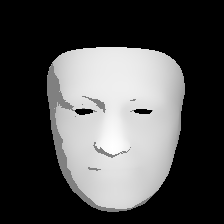
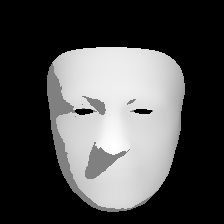
update inf_utils for fixed condition

diff --git a/sample_scripts/paper_script/relight_idx_rotate_normals.py b/sample_scripts/paper_script/relight_idx_rotate_normals.py
@@ -25,10 +25,12 @@ parser.add_argument('--src_dst', nargs='+', default=[], help='list of src and ds
 # Rendering
 parser.add_argument('--render_mode', type=str, default="shape")
 parser.add_argument('--rotate_normals', action='store_true', default=False)
-parser.add_argument('--scale_sh', type=float, default=1.0)
 parser.add_argument('--add_sh', type=float, default=None)
 parser.add_argument('--sh_grid_size', type=int, default=None)
-parser.add_argument('--sh_span', type=float, default=None)
+parser.add_argument('--sh_span_y', type=float, nargs='+', default=[])
+parser.add_argument('--sh_span_x', type=float, nargs='+', default=[])
+parser.add_argument('--sh_scale', type=float, default=1.0)
+parser.add_argument('--use_sh', action='store_true', default=False)
 parser.add_argument('--diffuse_sh', type=float, default=None)
 parser.add_argument('--diffuse_perc', type=float, default=None)
 # Diffusion
@@ -41,10 +43,6 @@ parser.add_argument('--gpu_id', type=str, default="0")
 parser.add_argument('--postfix', type=str, default='')
 parser.add_argument('--save_vid', action='store_true', default=False)
 parser.add_argument('--fps', action='store_true', default=False)
-# Experiment
-parser.add_argument('--fixed_render', action='store_true', default=False)
-parser.add_argument('--fixed_shadow', action='store_true', default=False)
-
 
 args = parser.parse_args()
 
@@ -88,6 +86,7 @@ device = 'cuda' if th.cuda.is_available() and th._C._cuda_getDeviceCount() > 0 e
 
 def make_condition(cond, src_idx, dst_idx, n_step=2, itp_func=None):
     condition_img = list(filter(None, dataset.condition_image))
+    n_step += 1
     args.interpolate = args.itp
     misc = {'condition_img':condition_img,
             'src_idx':src_idx,
@@ -100,7 +99,7 @@ def make_condition(cond, src_idx, dst_idx, n_step=2, itp_func=None):
             'img_size':cfg.img_model.image_size,
             'deca_obj':deca_obj,
             'cfg':cfg,
-            'batch_size':args.batch_size,
+            'batch_size':args.batch_size
             }  
     
     if itp_func is not None:
@@ -126,6 +125,7 @@ def make_condition(cond, src_idx, dst_idx, n_step=2, itp_func=None):
                 if 'dpm_noise_masking' in p:
                     cond[f'{k}_mask'] = cond[f'{k}_mask'].to(device)
                     cond['image'] = cond['image'].to(device)
+    
 
     if 'render_face' in args.itp:
         interp_set = args.itp.copy()
@@ -197,7 +197,7 @@ def relight(dat, model_kwargs, itp_func, n_step=3, src_idx=0, dst_idx=1):
     rev_mean_first = [x[:1] for x in rev_mean]
     
     print("[#] Relighting...")
-    sub_step = ext_sub_step(n_step)
+    sub_step = ext_sub_step(n_step+1)
     relit_out = []
     for i in range(len(sub_step)-1):
         print(f"[#] Sub step relight : {sub_step[i]} to {sub_step[i+1]}")
@@ -208,7 +208,7 @@ def relight(dat, model_kwargs, itp_func, n_step=3, src_idx=0, dst_idx=1):
         mean_match_ratio = copy.deepcopy(rev_mean_first)
         cond['use_render_itp'] = True
         cond_relight = copy.deepcopy(cond)
-        cond_relit = dict_slice_se(in_d=cond_relight, keys=cond_relight.keys(), s=start, e=end) # Slice only 1st image out for inversion
+        cond_relit = dict_slice_se(in_d=cond_relight, keys=cond_relight.keys(), s=start, e=end)
         if cfg.img_cond_model.apply:
             cond_relit = pl_sampling.forward_cond_network(model_kwargs=cond_relit)
         
@@ -240,7 +240,6 @@ if __name__ == '__main__':
 
     # Load dataset
     if args.dataset == 'itw':
-        cfg.dataset.root_path = f'/data/mint/DPM_Dataset/'
         img_dataset_path = f"/data/mint/DPM_Dataset/ITW/itw_images_aligned/"
         deca_dataset_path = f"/data/mint/DPM_Dataset/ITW/params/"
         img_ext = '.png'
@@ -368,29 +367,39 @@ if __name__ == '__main__':
         save_res_dir = f"{out_dir_relit}/src={src_id}/dst={dst_id}/{itp_fn_str}_{args.diffusion_steps}/n_frames={n_step}/"
         os.makedirs(save_res_dir, exist_ok=True)
         
-        f_relit = vis_utils.convert2rgb(out_relit, cfg.img_model.input_bound) / 255.0
-        vis_utils.save_images(path=f"{save_res_dir}", fn="res", frames=f_relit)
+        out_relit = vis_utils.convert2rgb(out_relit, cfg.img_model.input_bound) / 255.0
         
-        if args.eval_dir is not None:
-            # if args.dataset in ['mp_valid', 'mp_test']
-            # eval_dir = f"{args.eval_dir}/{args.ckpt_selector}_{args.step}/out/{args.dataset}/"
-            eval_dir = f"{args.eval_dir}/{args.ckpt_selector}_{args.step}/out/"
-            os.makedirs(eval_dir, exist_ok=True)
-            torchvision.utils.save_image(tensor=f_relit[-1], fp=f"{eval_dir}/input={src_id}#pred={dst_id}.png")
-            
+        B, C, H, W = out_relit.shape
+        n_grid = args.sh_grid_size
+        sx = args.sh_span_x
+        sy = args.sh_span_y
         
-        is_render = True if out_render is not None else False
-        if is_render:
-            clip_ren = True if 'wclip' in dataset.condition_image[0] else False 
-            if clip_ren:
-                vis_utils.save_images(path=f"{save_res_dir}", fn="ren", frames=(out_render[:, 0:3] + 1) * 0.5)
-            else:
-                vis_utils.save_images(path=f"{save_res_dir}", fn="ren", frames=out_render[:, 0:3].mul(255).add_(0.5).clamp_(0, 255)/255.0)
+        print("Out relit frames : ", out_relit.shape)
+        print("Out render frames : ", out_render.shape)
+        
+        
+        inv_frame = out_relit[0:1, ...]
+        torchvision.utils.save_image(tensor=inv_frame, fp=f"{save_res_dir}/res_inversion.png")
+        inv_render_frame = out_render[0:1, 0:3, ...][0]
+        inv_render_frame = (inv_render_frame.mul(255).add_(0.5).clamp_(0, 255)/255.0).float()
+        torchvision.utils.save_image(tensor=(inv_render_frame), fp=f"{save_res_dir}/ren_inversion.png")
+        
+        relit_frames = out_relit[1:, ...].reshape(n_grid, n_grid, C, H, W)
+        render_frames = out_render[1:, 0:3, ...].permute(0, 2, 3, 1)
+        render_frames = render_frames.reshape(n_grid, n_grid, H, W, C)
+        
+        for ili, li in enumerate(np.linspace(sx[0], sx[1], n_grid)):
+            for ilj, lj in enumerate(np.linspace(sy[0], sy[1], n_grid)):
+                # Relit
+                frame = relit_frames[ili, ilj].cpu().detach()
+                torchvision.utils.save_image(tensor=(frame), fp=f"{save_res_dir}/res_{ilj:02d}_{ili:02d}.png")
+                # Render 
+                frame = render_frames[ili, ilj].cpu().detach()
+                frame = frame.permute(2, 0, 1)
+                frame = (frame.mul(255).add_(0.5).clamp_(0, 255)/255.0).float()
                 
-        # Save shadow mask
-        vis_utils.save_images(path=f"{save_res_dir}", fn="shadm", frames=(out_render[:, 3:4] + 1) * 0.5)
+                torchvision.utils.save_image(tensor=(frame), fp=f"{save_res_dir}/ren_{ilj:02d}_{ili:02d}.png")
         
-                
         if args.save_vid:
             """
             save the video
@@ -399,36 +408,26 @@ if __name__ == '__main__':
                 fn : path + filename to save
                 fps : video fps
             """
-            #NOTE: save_video, w/ shape = TxHxWxC and value range = [0, 255]
-            vid_relit = out_relit
-            vid_relit = vid_relit.permute(0, 2, 3, 1)
-            vid_relit = ((vid_relit + 1)*127.5).clamp_(0, 255).type(th.ByteTensor)
-            vid_relit_rt = th.cat((vid_relit, th.flip(vid_relit, dims=[0])))
-            torchvision.io.write_video(video_array=vid_relit, filename=f"{save_res_dir}/res.mp4", fps=args.fps)
-            torchvision.io.write_video(video_array=vid_relit_rt, filename=f"{save_res_dir}/res_rt.mp4", fps=args.fps)
-            if is_render:
-                vid_render = out_render[:, :3]
-                # vid_render = th.cat((out_render, th.flip(out_render, dims=[0])))
-                clip_ren = False #if 'wclip' in dataset.condition_image else True
-                if clip_ren:
-                    vid_render = ((vid_render.permute(0, 2, 3, 1) + 1) * 127.5).clamp_(0, 255).type(th.ByteTensor)
-                    torchvision.io.write_video(video_array=vid_render, filename=f"{save_res_dir}/ren.mp4", fps=args.fps)
-                else:
-                    vid_render = (vid_render.permute(0, 2, 3, 1).mul(255).add_(0.5).clamp_(0, 255)).type(th.ByteTensor)
-                    torchvision.io.write_video(video_array=vid_render, filename=f"{save_res_dir}/ren.mp4", fps=args.fps)
-                    vid_render_rt = th.cat((vid_render, th.flip(vid_render, dims=[0])))
-                    torchvision.io.write_video(video_array=vid_render_rt, filename=f"{save_res_dir}/ren_rt.mp4", fps=args.fps)
-                    
-            # Save shadow mask
-            vid_render = out_render[:, 3:4]
-            print(vid_render.shape)
-            vid_render = (((vid_render + 1) * 0.5).permute(0, 2, 3, 1).mul(255).add_(0.5).clamp_(0, 255)).type(th.ByteTensor)
-            vid_render = vid_render.repeat_interleave(repeats=3, dim=-1)
-            print(vid_render.shape)
-            torchvision.io.write_video(video_array=vid_render, filename=f"{save_res_dir}/shadm.mp4", fps=args.fps)
-            vid_render_rt = th.cat((vid_render, th.flip(vid_render, dims=[0])))
-            torchvision.io.write_video(video_array=vid_render_rt, filename=f"{save_res_dir}/shadm_rt.mp4", fps=args.fps)
-                
+            
+            spiral = vis_utils.spiralOrder(m=n_grid, n=n_grid)
+            
+            v_res = []
+            relite_frames = relit_frames.permute(0, 1, 3, 4, 2)
+            for vi in spiral:
+                v_res.append(relit_frames[vi[0], vi[1]])
+            v_res = th.stack(v_res, dim=0).mul(255).add_(0.5).clamp_(0, 255).type(th.ByteTensor)
+            v_res = v_res.permute(0, 2, 3, 1)
+            torchvision.io.write_video(video_array=v_res, filename=f"{save_res_dir}/res.mp4", fps=30)
+            torchvision.io.write_video(video_array=th.cat((v_res, th.flip(v_res, dims=[0]))), filename=f"{save_res_dir}/res_rt.mp4", fps=30)
+            
+            v_ren = []
+            for vi in spiral:
+                v_ren.append(render_frames[vi[0], vi[1]])
+            v_ren = th.stack(v_ren, dim=0).mul(255).add_(0.5).clamp_(0, 255).type(th.ByteTensor)
+            torchvision.io.write_video(video_array=v_ren.cpu().numpy(), filename=f"{save_res_dir}/ren.mp4", fps=30)
+            torchvision.io.write_video(video_array=th.cat((v_ren, th.flip(v_ren, dims=[0]))).cpu().numpy(), filename=f"{save_res_dir}/ren_rt.mp4", fps=30)
+            
+            
         with open(f'{save_res_dir}/res_desc.json', 'w') as fj:
             log_dict = {'sampling_args' : vars(args), 
                         'samples' : {'src_id' : src_id, 'dst_id':dst_id, 'itp_fn':itp_fn_str, 'itp':itp_str}}

diff --git a/experiment_scripts/raytracing_shadow_example/shadow_test.py b/experiment_scripts/raytracing_shadow_example/shadow_test.py
@@ -19,20 +19,41 @@ ray[2] *= 0.5
 # exit()
 
 n = 224
-ray = ray / (pt.norm(ray) + 1e-18)
+ray = ray / pt.norm(ray)
 mxaxis = max(abs(ray[0]), abs(ray[1]))
-shift = ray / ((mxaxis * pt.arange(n).view(n, 1)) + 1e-18)
+print(ray/mxaxis)
+# Walk by 1 pixel; 
+# ray/mxaxis for ensuring that we move follow desired direction by 1 pixel
+shift = ray / mxaxis * pt.arange(n).view(n, 1)  
+print(shift.shape)
 for y in range(n):
   for x in range(n):
     if grid[y, x, 2] == 0: continue
+    # grid[y, x] = 3d pts (x, y, depth)
+    # get depth of ray 
     coords = grid[y, x] + shift
+    # coords = grid[y, x]
+    # print(coords.shape)
+    # coords[:, :2] = coords[:, :2] + shift[:, :2]
+    print(coords.shape)
+    exit()
+    # exit()
+    # print(pt.max(coords[:, :2].view(1, n, 1, 2)))
+    # print(pt.min(coords[:, :2].view(1, n, 1, 2)))
+    # print(pt.max(coords[:, :2].view(1, n, 1, 2) / (n - 1) * 2 - 1))
+    # print(pt.min(coords[:, :2].view(1, n, 1, 2) / (n - 1) * 2 - 1))
+    # Get depth at coords[x, y]
     output = pt.nn.functional.grid_sample(
-      grid[:, :, 2].view(1, 1, n, n),
-      coords[:, :2].view(1, n, 1, 2) / (n - 1) * 2 - 1,
-      align_corners=True
+      grid[:, :, 2].view(1, 1, n, n),   # Depth
+      coords[:, :2].view(1, n, 1, 2) / (n - 1) * 2 - 1, # Coordinates to eval which norm to [-1, 1]
+      align_corners=True  # Use for 
     )
+    # if exists any points along the (ray - depth) < -0.1 => under shadow
     if pt.min(coords[:, 2] - output[0, 0, :, 0]) < -0.1:
+      # Edit only pixel under shadow to have value = 0.5 
       vis[y, x] = 0.5
+  
+print(pt.unique(vis))
 
 save_image(vis, "output.png")
 exit()

diff --git a/sample_scripts/sample_utils/inference_utils.py b/sample_scripts/sample_utils/inference_utils.py
@@ -299,8 +299,15 @@ def build_condition_image(cond, misc):
             all_render.append(deca_rendered)
             all_shadow_mask.append(shadow_mask[:, None, ...])
         print("Rendering time : ", time.time() - start_t)
-        deca_rendered = th.cat(all_render, dim=0)
-        shadow_mask = th.cat(all_shadow_mask, dim=0)
+        
+        if args.fixed_render:
+            deca_rendered = th.cat(all_render[[0].repeat_interleave(repeats=len(all_render), dim=0), ...], dim=0)
+        else:
+            deca_rendered = th.cat(all_render, dim=0)
+        if args.fixed_shadow_mask:
+            shadow_mask = th.cat(all_shadow_mask[[0].repeat_interleave(repeats=len(all_render), dim=0), ...], dim=0)
+        else:
+            shadow_mask = th.cat(all_shadow_mask, dim=0)
         
     #TODO: Make this applicable to either 'cond_img' or 'dpm_cond_img'
     print("Conditoning with image : ", condition_img)
